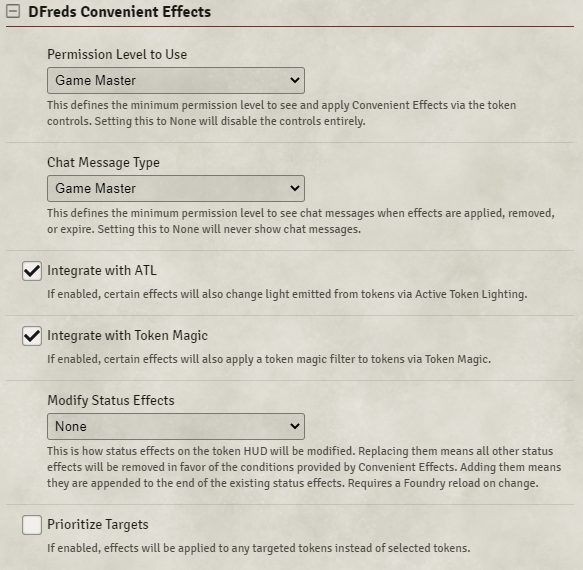
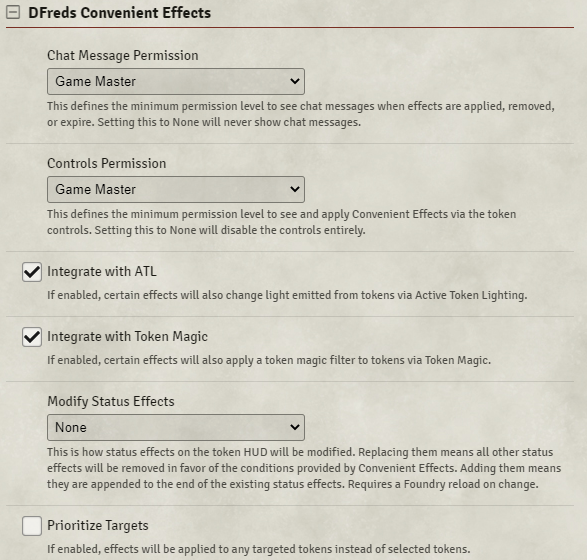
Slight clarifications on new settings

diff --git a/scripts/settings.js b/scripts/settings.js
@@ -5,11 +5,11 @@ export default class Settings {
   static PACKAGE_NAME = 'dfreds-convenient-effects';
 
   // Settings keys
-  static CHAT_MESSAGE_TYPE = 'chatMessageType';
+  static CHAT_MESSAGE_PERMISSION = 'chatMessagePermission';
+  static CONTROLS_PERMISSION = 'controlsPermission';
   static INTEGRATE_WITH_ATL = 'integrateWithAtl';
   static INTEGRATE_WITH_TOKEN_MAGIC = 'integrateWithTokenMagic';
   static MODIFY_STATUS_EFFECTS = 'modifyStatusEffects';
-  static PERMISSION_LEVEL_TO_USE = 'permissionLevelToUse';
   static PRIORITIZE_TARGETS = 'prioritizeTargets';
 
   static FAVORITE_EFFECT_NAMES = 'favoriteEffectNames';
@@ -29,9 +29,23 @@ export default class Settings {
 
     game.settings.register(
       Settings.PACKAGE_NAME,
-      Settings.PERMISSION_LEVEL_TO_USE,
+      Settings.CHAT_MESSAGE_PERMISSION,
       {
-        name: 'Permission Level to Use',
+        name: 'Chat Message Permission',
+        hint: 'This defines the minimum permission level to see chat messages when effects are applied, removed, or expire. Setting this to None will never show chat messages.',
+        scope: 'world',
+        config: true,
+        default: CONST.USER_ROLES.GAMEMASTER,
+        choices: userRoles,
+        type: String,
+      }
+    );
+
+    game.settings.register(
+      Settings.PACKAGE_NAME,
+      Settings.CONTROLS_PERMISSION,
+      {
+        name: 'Controls Permission',
         hint: 'This defines the minimum permission level to see and apply Convenient Effects via the token controls. Setting this to None will disable the controls entirely.',
         scope: 'world',
         config: true,
@@ -41,16 +55,6 @@ export default class Settings {
         onChange: () => window.location.reload(),
       }
     );
-
-    game.settings.register(Settings.PACKAGE_NAME, Settings.CHAT_MESSAGE_TYPE, {
-      name: 'Chat Message Type',
-      hint: 'This defines the minimum permission level to see chat messages when effects are applied, removed, or expire. Setting this to None will never show chat messages.',
-      scope: 'world',
-      config: true,
-      default: CONST.USER_ROLES.GAMEMASTER,
-      choices: userRoles,
-      type: String,
-    });
 
     game.settings.register(Settings.PACKAGE_NAME, Settings.INTEGRATE_WITH_ATL, {
       name: 'Integrate with ATL',
@@ -162,13 +166,24 @@ export default class Settings {
   }
 
   /**
-   * Returns the game setting for chat message type
+   * Returns the game setting for chat message permission
    *
    * @returns {number} a number representing the chosen role
    */
-  get chatMessageType() {
+  get chatMessagePermission() {
     return parseInt(
-      game.settings.get(Settings.PACKAGE_NAME, Settings.CHAT_MESSAGE_TYPE)
+      game.settings.get(Settings.PACKAGE_NAME, Settings.CHAT_MESSAGE_PERMISSION)
+    );
+  }
+
+  /**
+   * Returns the game setting for controls permission
+   *
+   * @returns {number} a number representing the chosen role
+   */
+  get controlsPermission() {
+    return parseInt(
+      game.settings.get(Settings.PACKAGE_NAME, Settings.CONTROLS_PERMISSION)
     );
   }
 
@@ -205,17 +220,6 @@ export default class Settings {
     return game.settings.get(
       Settings.PACKAGE_NAME,
       Settings.MODIFY_STATUS_EFFECTS
-    );
-  }
-
-  /**
-   * Returns the game setting for permission to use
-   *
-   * @returns {number} a number representing the chosen role
-   */
-  get permissionLevelToUse() {
-    return parseInt(
-      game.settings.get(Settings.PACKAGE_NAME, Settings.PERMISSION_LEVEL_TO_USE)
     );
   }
 

diff --git a/scripts/effects/effect-handler.js b/scripts/effects/effect-handler.js
@@ -241,7 +241,8 @@ export default class EffectHandler {
    */
   async createChatForEffect({ effectName, reason, actor }) {
     // Handle if it set to None
-    if (this._settings.chatMessageType > CONST.USER_ROLES.GAMEMASTER) return;
+    if (this._settings.chatMessagePermission > CONST.USER_ROLES.GAMEMASTER)
+      return;
 
     const effect = game.dfreds.effects.all.find(
       (effect) => effect.name == effectName
@@ -254,10 +255,12 @@ export default class EffectHandler {
     await ChatMessage.create({
       user: game.userId,
       whisper:
-        this._settings.chatMessageType === CONST.USER_ROLES.PLAYER
+        this._settings.chatMessagePermission === CONST.USER_ROLES.PLAYER
           ? undefined
           : game.users
-              .filter((user) => user.role >= this._settings.chatMessageType)
+              .filter(
+                (user) => user.role >= this._settings.chatMessagePermission
+              )
               .map((user) => user.id),
       content: `<p><strong>${effect.name}</strong> - ${reason} ${actorName}</p>
          <p>${effect.description}</p>

diff --git a/scripts/controls.js b/scripts/controls.js
@@ -30,7 +30,7 @@ export default class Controls {
       title: 'Add Convenient Effects',
       icon: 'fas fa-hand-sparkles',
       button: true,
-      visible: game.user.role >= this._settings.permissionLevelToUse,
+      visible: game.user.role >= this._settings.controlsPermission,
       onClick: this._handleConvenientEffectsClick,
     };
   }
@@ -45,7 +45,7 @@ export default class Controls {
       title: 'Remove All Convenient Effects',
       icon: 'fas fa-trash-alt',
       button: true,
-      visible: game.user.role >= this._settings.permissionLevelToUse,
+      visible: game.user.role >= this._settings.controlsPermission,
       onClick: this._handleRemoveAllClick,
     };
   }
